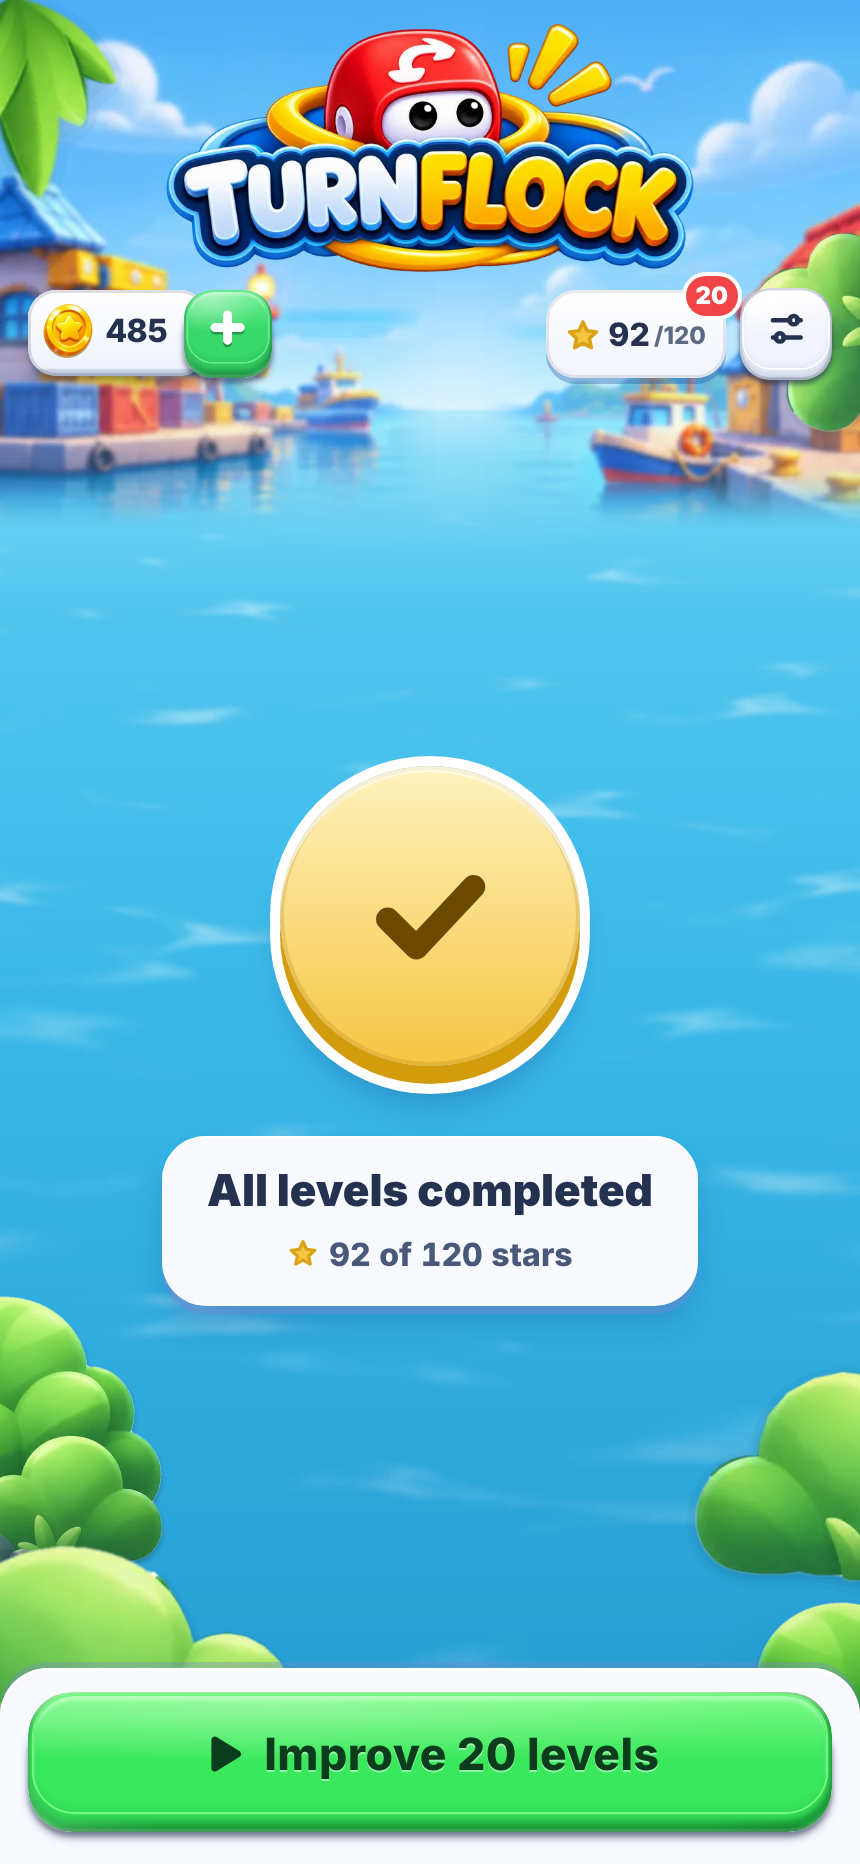
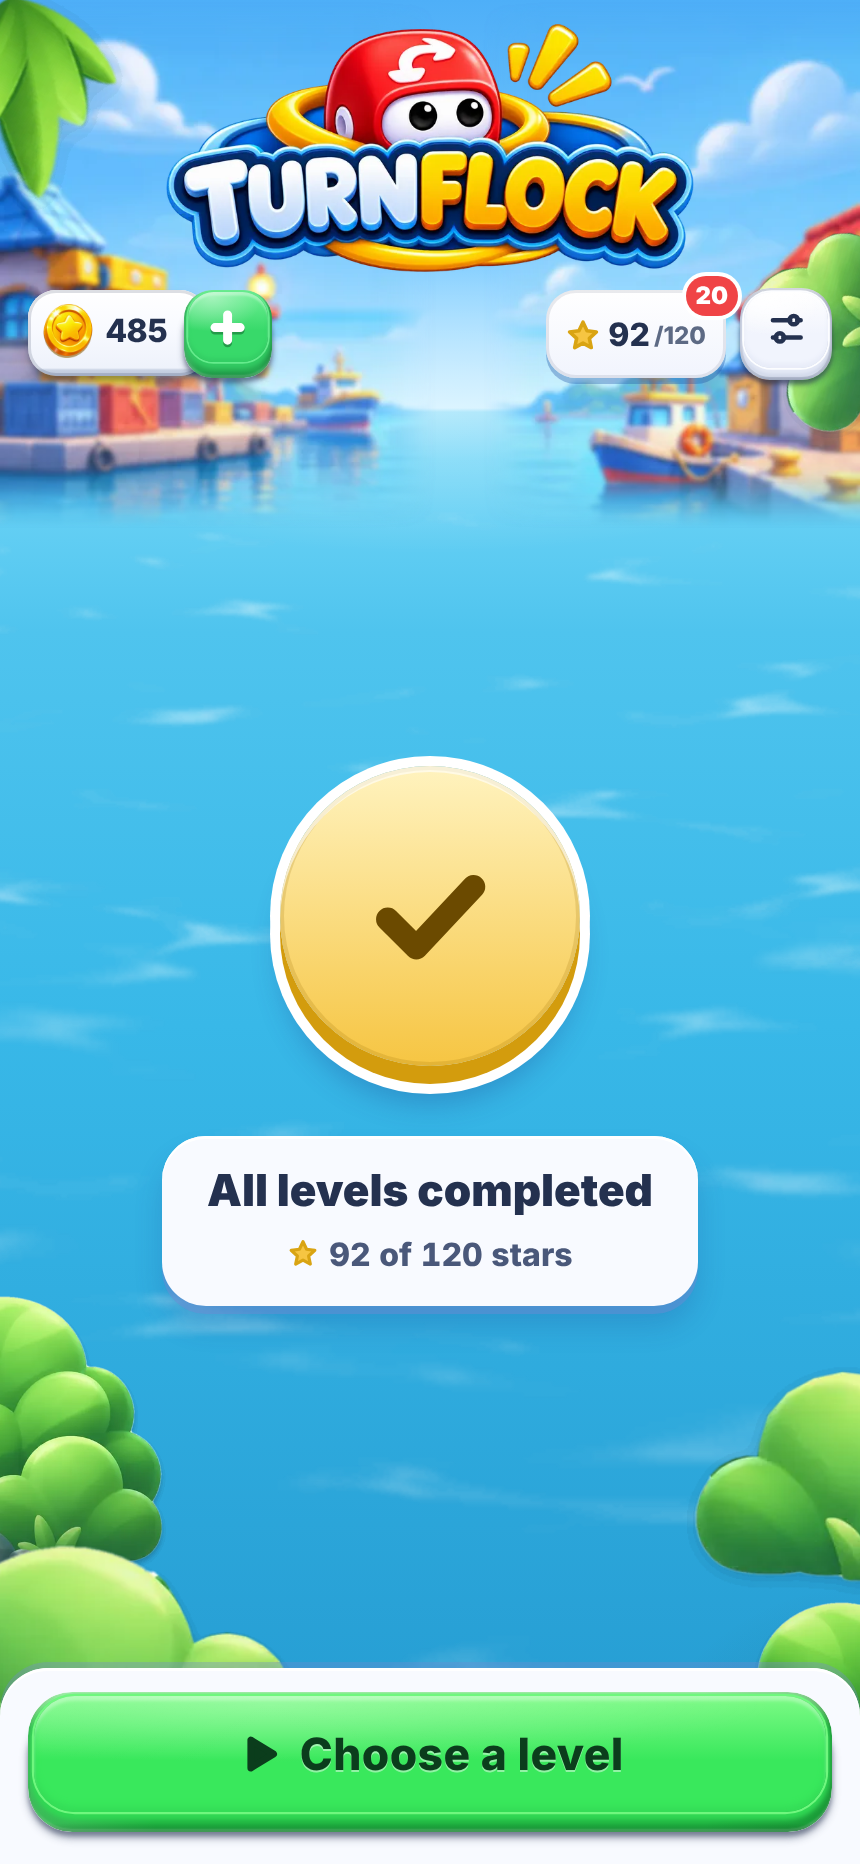
feat: with every level completed the player chooses any level to play again (finding B2)
The owner does not want "play again from level 1": which level to replay
is decided per level. Once all levels are completed, "Choose a level" and
the star total open the grid with every level. Before that the list still
holds only the completed levels under three stars. The unused config value
levelPath.playAgainWhenComplete is removed.

Finding: B2 (production/findings.md)

Claude-Session: https://claude.ai/code/session_01PBSmYpN56PkC5z5bRR6Dka

Changed region(s): [[0.2419, 0.9335, 0.786, 0.9646]]

diff --git a/src/ui/screens.ts b/src/ui/screens.ts
@@ -21,8 +21,13 @@ export interface LevelsModel {
    */
   view: 'path' | 'grid' | 'improve';
   nodes: MapNode[];
-  /** The completed levels with fewer than three stars, in play order. */
+  /**
+   * The levels the `improve` view offers to play again, in play order: the completed ones with
+   * fewer than three stars, or every level once all of them are completed.
+   */
   improvable: MapNode[];
+  /** That list is every level: the player chooses any level to play again. */
+  replayAll: boolean;
   /** The star total was tapped: open the levels to improve, or leave them again. */
   onImprove: () => void;
   /** Icon of the main action. */
@@ -71,15 +76,15 @@ export function renderLevels(model: LevelsModel): void {
   el('mapStars').textContent = String(stars);
   el('mapProgress').setAttribute('aria-label', `${solved} of ${nodes.length} levels, ${stars} of ${nodes.length * 3} stars`);
   // For a player the star total is a button: it opens the levels that can still be improved. With none it only tells the total.
-  const count = model.improvable.length;
+  const count = model.improvable.filter((n) => n.stars < 3).length;
   const starButton = el<HTMLButtonElement>('toImprove');
   el('starSum').textContent = String(stars);
   el('starMax').textContent = `/${nodes.length * 3}`;
   el('improveCount').textContent = String(count);
   el('improveCount').hidden = count === 0 || view === 'improve';
-  starButton.disabled = count === 0;
+  starButton.disabled = model.improvable.length === 0;
   starButton.setAttribute('aria-pressed', String(view === 'improve'));
-  starButton.setAttribute('aria-label', `${stars} of ${nodes.length * 3} stars${count > 0 ? `. Improve ${count} level${count === 1 ? '' : 's'}` : ''}`);
+  starButton.setAttribute('aria-label', `${stars} of ${nodes.length * 3} stars${model.replayAll ? '. Choose a level to play again' : count > 0 ? `. Improve ${count} level${count === 1 ? '' : 's'}` : ''}`);
   starButton.onclick = () => model.onImprove();
   el('continue').classList.toggle('tf-levels-backbtn', model.playIcon === 'back');
   el('continue').hidden = model.playLabel === null;
@@ -184,7 +189,7 @@ function renderGrid(model: LevelsModel): void {
   const first = page * pageSize + 1;
   const last = Math.min(first + pageSize - 1, nodes.length);
   // The levels to improve are not consecutive, so their pages are counted instead of named by level.
-  el('pageLabel').textContent = model.view === 'improve' ? `Page ${page + 1} of ${pages}` : `Levels ${first}–${last}`;
+  el('pageLabel').textContent = model.view === 'improve' && !model.replayAll ? `Page ${page + 1} of ${pages}` : `Levels ${first}–${last}`;
   el('pageInfo').setAttribute('aria-label', `Page ${page + 1} of ${pages}`);
   el('pageDots').innerHTML = Array.from({ length: pages }, (_, p) => `<i class="${p === page ? 'on' : nodes.slice(p * pageSize, (p + 1) * pageSize).every((n) => n.solved) ? 'full' : ''}"></i>`).join('');
   el<HTMLButtonElement>('pagePrev').disabled = page === 0;

diff --git a/src/main.ts b/src/main.ts
@@ -252,7 +252,9 @@ class Game {
     this.page ??= Math.floor(main.index / pageSize);
     const stars = nodes.map((n) => n.stars);
     // In their own list none of them is "the" target: every tile there is equally worth a replay.
-    const improvable = improvableLevels(stars).map((index) => ({ ...nodes[index], target: false }));
+    // With every level completed the player chooses any level to play again; before that only the ones with stars left to earn.
+    const replayAll = main.kind !== 'play';
+    const improvable = (replayAll ? nodes.map((_, index) => index) : improvableLevels(stars)).map((index) => ({ ...nodes[index], target: false }));
     const base = levelScreenView(this.save.lab);
     // Nothing left to improve, or the test grid is on: the list of levels to improve has no place.
     if (base === 'grid' || improvable.length === 0) this.improving = false;
@@ -271,8 +273,8 @@ class Game {
       playLabel = complete ? 'Back' : `Back to level ${main.index + 1}`;
       action = toggleImprove;
     } else if (view === 'path' && complete) {
-      playLabel = improvable.length > 0 ? `Improve ${improvable.length} level${improvable.length === 1 ? '' : 's'}` : CONFIG.levelPath.playAgainWhenComplete ? 'Play again from level 1' : null;
-      action = improvable.length > 0 ? toggleImprove : () => this.startLevel(0);
+      playLabel = 'Choose a level';
+      action = toggleImprove;
     } else {
       playLabel = main.kind === 'play' ? `Play level ${main.index + 1}` : main.kind === 'improve' ? `Improve level ${main.index + 1}` : 'Play again';
       action = () => this.startLevel(main.index);
@@ -282,6 +284,7 @@ class Game {
       view,
       nodes,
       improvable,
+      replayAll,
       current: complete ? null : main.index,
       ahead: CONFIG.levelsAhead,
       layout: CONFIG.levelPath.layout,
@@ -289,7 +292,7 @@ class Game {
       pageSize,
       playLabel,
       playIcon: view === 'improve' ? 'back' : 'play',
-      gridNote: view === 'improve' ? 'Improve your stars' : this.save.lab.unlockAll ? 'Test view · all levels unlocked' : 'Test view · grid',
+      gridNote: view === 'improve' ? (replayAll ? 'Play a level again' : 'Improve your stars') : this.save.lab.unlockAll ? 'Test view · all levels unlocked' : 'Test view · grid',
       onPick: (index) => this.tap(() => this.startLevel(index)),
       onImprove: () => this.tap(toggleImprove),
       onPage: (page) => {

diff --git a/tests/integration/boot.spec.ts b/tests/integration/boot.spec.ts
@@ -147,15 +147,15 @@ test('every level can be played to a win in order, ending back at the level sele
   await expect(page.locator('#doneView')).toBeVisible();
   await expect(page.locator('#doneView')).toContainText('All levels completed');
   await expect(page.locator('#doneText')).toHaveText(`${levels.length * 3} of ${levels.length * 3} stars`);
-  await expect(page.locator('#steps .tf-levels-step.is-current')).toHaveCount(0);
-  await expect(page.locator('#continue')).toBeHidden();
-  await expect(page.locator('#toImprove')).toBeDisabled();
-  // The grid test view still shows every level: one page at a time, every tile with three stars.
-  await openLab(page);
-  await page.click('[data-key=levelScreen] [data-value=grid]');
-  await closeLab(page);
+  await expect(page.locator('#steps .tf-levels-step')).toHaveCount(0);
+  // From here the player chooses any level to play again: every level, one page at a time, each with three stars.
+  await expect(page.locator('#continue')).toHaveText('Choose a level');
+  await page.click('#continue');
+  await expect(page.locator('#gridNote')).toHaveText('Play a level again');
   await expect(page.locator('.tf-levels-tile.s3')).toHaveCount(tilesOnPage);
-  await expect(page.locator('#continue')).toHaveText('Play again');
+  await expect(page.locator('#continue')).toHaveText('Back');
+  await page.click(`#node-${TWO_COLOURS + 1}`);
+  expect(await snap(page)).toMatchObject({ screen: 'level', level: TWO_COLOURS });
   expect(errors).toEqual([]);
 });
 

diff --git a/src/ui/tf-levels.css b/src/ui/tf-levels.css
@@ -225,8 +225,8 @@
 @container tl (max-height: 620px) {
   /* No room above the tray on a short screen: the tab hangs from its bottom edge. */
   .tf-levels-testnote { top: auto; bottom: -6px; }
-  /* The title of the levels to improve is larger; it fits just between the header and the first row. */
-  .tf-levels-i .tf-levels-testnote { top: -13px; bottom: auto; padding: 4px 10px; font-size: 12px; }
+  /* A full page leaves no room for the title of the levels to play again: it stays for screen readers, and the lit star total and Back say where the player is. */
+  .tf-levels-i .tf-levels-testnote { width: 1px; height: 1px; padding: 0; overflow: hidden; clip-path: inset(50%); box-shadow: none; }
   .tf-levels-wheretext { font-size: 14px; }
   .tf-levels-done { gap: 16px; }
   .tf-levels-donetitle { font-size: 19px; }

diff --git a/production/findings.md b/production/findings.md
@@ -32,4 +32,4 @@ hier, is in de data instelbaar en kan door de eigenaar worden omgedraaid.
 
 | Nr | Datum | Commit | Wat er nu in het spel zit |
 |---|---|---|---|
-| B2 | 2026-11-22 | `9aa96d3` (branch `claude/turnflock-level-path`, nog niet samengevoegd) | Het levelscherm toont alleen het huidige level (groot) en de volgende vijf als vergrendelde stappen op een slingerend pad (`levelsAhead`, `levelPath.layout`); gehaalde levels zijn niet meer te zien. Voortgang: "Level 12 of 40" met balk en het sterrentotaal. Alles gehaald: een rustige eindtoestand zonder hoofdknop (`levelPath.playAgainWhenComplete` zet "Play again from level 1" aan). Het oude raster bestaat alleen nog als testweergave (testlab: "Level screen: Grid" of "Unlock all levels"). **Aanvulling van de eigenaar (2026-11-22, referentie Cut the Rope):** levels zonder maximale sterren moeten te verbeteren blijven. Daarom is de sterrenteller een knop die "Improve your stars" opent: een raster met alleen de gehaalde levels onder de 3 sterren; een level met 3 sterren verdwijnt eruit. Na het laatste level is "Improve N levels" de hoofdknop. Open voor de eigenaar: wil je "opnieuw vanaf level 1" als alles op 3 sterren staat? Bewijs: `production/qa/evidence/findings-level-path/`. |
+| B2 | 2026-11-22 | `9aa96d3` (branch `claude/turnflock-level-path`, nog niet samengevoegd) | Het levelscherm toont alleen het huidige level (groot) en de volgende vijf als vergrendelde stappen op een slingerend pad (`levelsAhead`, `levelPath.layout`); gehaalde levels zijn niet meer te zien. Voortgang: "Level 12 of 40" met balk en het sterrentotaal. Alles gehaald: een rustige eindtoestand met de hoofdknop "Choose a level". Het oude raster bestaat alleen nog als testweergave (testlab: "Level screen: Grid" of "Unlock all levels"). **Aanvulling van de eigenaar (2026-11-22, referentie Cut the Rope):** levels zonder maximale sterren moeten te verbeteren blijven. Daarom is de sterrenteller een knop die "Improve your stars" opent: een raster met alleen de gehaalde levels onder de 3 sterren; een level met 3 sterren verdwijnt eruit. Na het laatste level kiest de speler per level wat hij opnieuw speelt (keuze van de eigenaar, geen "opnieuw vanaf level 1"): "Choose a level" opent het raster met alle levels. Bewijs: `production/qa/evidence/findings-level-path/`. |

diff --git a/production/qa/evidence/findings-level-path/README.md b/production/qa/evidence/findings-level-path/README.md
@@ -9,12 +9,12 @@ Playwright at pixel ratio 2. The states are made by filling `best` in the save (
 | `mid-<size>.png` | Mid-way: level 12 of 40, the next five locked |
 | `end-<size>.png` | Level 39: one level ahead, then the finish |
 | `last-<size>.png` | Level 40: only the finish ahead |
-| `done-<size>.png` | Everything completed: the calm end state, no path and no main action |
+| `done-<size>.png` | Everything completed: the calm end state, no path; the main action is "Choose a level" |
 | `unlock-<size>.png` | Test lab "Unlock all levels" on: the old paged grid, marked as a test view |
 | `grid-<size>.png` | Test lab "Level screen: Grid": the old grid with its locks, marked as a test view |
 | `improve/path-mid-<size>.png` | The star total as a button, with the number of levels that can be improved |
-| `improve/improve-mid-<size>.png`, `improve-one-`, `improve-done-` | "Improve your stars": only the completed levels under three stars (5, 1 and 20 of them) |
-| `improve/done-improvable-<size>.png`, `done-perfect-` | Everything completed: with levels left to improve (main action "Improve 20 levels") and with every star |
+| `improve/improve-mid-<size>.png`, `improve-one-`, `improve-done-` | "Improve your stars": only the completed levels under three stars (5 and 1 of them); `improve-done-`: everything completed, so "Play a level again" shows every level |
+| `improve/done-improvable-<size>.png`, `done-perfect-` | Everything completed, with stars left to earn and with every star: the main action is "Choose a level" |
 | `improve/path-perfect-<size>.png` | Nothing to improve: the star total is not a button |
 | `focus-current-390x844.png` | Keyboard focus on the current level, reduced motion on (no breathing halo) |
 | `layout-b-straight/` | The alternative layout (one straight column, `levelPath.layout: "straight"`); the files in this folder's parent are the recommended winding layout |

diff --git a/design/game-brief.md b/design/game-brief.md
@@ -44,7 +44,7 @@ Each level has a move budget of the shortest solution plus two. Running out ends
 - [x] Hint (two steps) and +3 extra moves, offered only when proven to be enough
 - [x] Test lab: exit rule, yellow early, spare moves, speed, board framing, unlock all
 - [x] Level selection with a Continue button and pages of 20
-- [x] Level selection as a path (finding B2): only the current level and the next `levelsAhead` (5) locked levels are shown, completed levels are not; progress as "Level N of 40" and the star total. The paged grid remains as a test view (test lab: "Level screen: Grid" or "Unlock all levels"). A completed level with fewer than three stars can be played again from "Improve your stars", opened by the star total; a level with three stars is no longer shown anywhere
+- [x] Level selection as a path (finding B2): only the current level and the next `levelsAhead` (5) locked levels are shown, completed levels are not; progress as "Level N of 40" and the star total. The paged grid remains as a test view (test lab: "Level screen: Grid" or "Unlock all levels"). A completed level with fewer than three stars can be played again from "Improve your stars", opened by the star total; a level with three stars is not shown until every level is completed, when "Choose a level" opens all of them to play again one by one
 - [x] Robots always face the player with large eyes; the head arrow and pupils show the heading
 - [x] Forty levels on two pages of 20, each page an arc; the first five teach the rules one at a time (`design/level-structure.md`)
 - [x] Level design tools: measure every level, generate candidates per idea, report (`tools/level-design/`, `design/level-report.md`)

diff --git a/data/config-notes.md b/data/config-notes.md
@@ -17,7 +17,6 @@
 | `levelsPerPage` | Level tiles per page of the grid: the player's "Improve your stars" list (completed levels under three stars) and the test view of every level (test lab "Level screen: Grid" or "Unlock all levels") |
 | `levelsAhead` | Locked levels shown after the current one on the level selection (the path). Completed levels are not shown (finding B2) |
 | `levelPath.layout` | Shape of the path: `winding` (the steps sway left and right) or `straight` (one column) |
-| `levelPath.playAgainWhenComplete` | `false`: with every level completed and every star earned the screen only shows that state (with stars left to earn it offers "Improve N levels"). `true`: it also offers a "Play again from level 1" button |
 | `stars.three`, `stars.two` | Moves over par that still earn 3 and 2 stars |
 | `lowMoves` | Moves left at which the counter turns into a warning |
 | `rules.exitAcceptsMany` | `true`: several robots may enter the exit in one turn |
